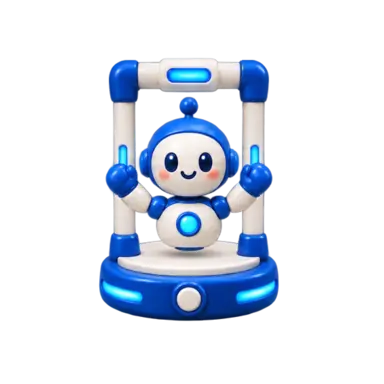
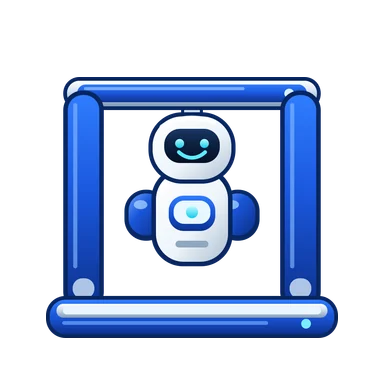
feat: generate modern Hangman illustrations

diff --git a/docs/design/game-art-fidelity-ledger.md b/docs/design/game-art-fidelity-ledger.md
@@ -141,3 +141,19 @@ Accepted ten individually generated Modern sprites after native-resolution sourc
 | Alpha, geometry and budget | Every source is a 1254×1254 RGBA PNG with one meaningful object. The existing preparation step removed 131–4,699 detached faint-alpha pixels in memory per source; no meaningful component touches an edge. All finals have genuine alpha, transparent corners, one meaningful component, no edge contact, at least 11.72% padding, and 76.04% pawn / 76.17% die longest-bound fill. Batch: 81,262 bytes; largest final: 11,634 bytes. |
 
 Final source PNGs are copied unchanged from built-in outputs into the ten manifest source paths. Only the ten target records changed in the manifest; their generated/reviewed timestamps use actual file generation times and the completed visual/metrics review. Stage remains `generation-batches`: 29 completed custom records, 79 `generationPending` custom records, and nine unchanged authority-pending coin slots. Asset tests passed 43/43, unit tests 88/88, TypeScript passed under Node 22.23.3, and the web/PWA build completed. No behavior code or validators changed. This batch does not claim a fresh gameplay audit.
+
+## Task 2E Final Modern Hangman illustrations — 2026-09-27
+
+Accepted seven deterministic Modern Hangman illustrations authored by the approved repository-local SVG/Sharp generator after prior generative methods could not preserve the fixed progression contract. Every role retains its individual frozen prompt and source path; generator provenance records how the same shared geometry was fulfilled without claiming a reused source or sheet crop.
+
+| Inspection | Evidence and result |
+| --- | --- |
+| Original sources | All seven 1024×1024 true-alpha PNGs were inspected individually at original detail through the authorized native-resolution inline fallback after the local viewer failed because bubblewrap is unavailable. Stage 0 is only the blue/silver platform; stages 1–6 add posts, crossbar, cheerful connected head, white/blue torso, short arms, then rounded feet. Shared camera, upper-left highlights, outlines, materials, scale, and retained parts are stable. |
+| Fixed geometry | Every source has exact x=123..900 platform bounds (778px), bottom edge y=901, 75.9766% longest-bound fill, 123px left/right/bottom padding, transparent corners, no edge contact, and one meaningful component containing 100% of connected foreground. Opaque prior-stage pixels remain byte-identical; visible pixel counts increase monotonically from 84,992 to 366,866. |
+| Production-size light/dark | [Light](qa/modern-hangman-full-light.webp) and [dark](qa/modern-hangman-full-dark.webp) sheets show the seven 384px finals in stage order. The polished white shell, glossy dark face, cyan expression, cobalt frame, silver details, and stage additions remain clear on both backgrounds with no boxes, text, checkerboard, shadow plane, clipping, or threatening imagery. |
+| Phone-size readability | [Light](qa/modern-hangman-phone-light.webp) and [dark](qa/modern-hangman-phone-dark.webp) 160px-cell sheets keep every addition unmistakable. The face and cyan expression remain friendly and readable; arms and feet remain distinct from the torso and platform. |
+| Final geometry and budget | All seven finals use the same shared downscale/base transform, align at output base y=338, have 76.0417% longest-bound fill, at least 11.98% padding, seven distinct hashes, one meaningful component, transparent corners, and no edge contact. Batch finals total 51,756 bytes; largest final is 12,092 bytes. Sources total 257,109 bytes and remain outside the runtime budget. |
+
+The generator uses one conditional assembly model and emits one separate source PNG per role; it is an authoring-only Node script and does not enter the application bundle. The platform/frame is drawn from identical definitions at every later stage, while additions are layered behind retained pieces to prevent geometry or material drift. The normalizer then applies one union crop, one scale, and one lower base anchor to all seven sources without upscaling.
+
+Stage remains `generation-batches`: 36 completed custom records, 72 `generationPending` custom records, and nine unchanged `authorityReferencePending` quarter slots. Only the seven Modern Hangman records gained completion dates and generator provenance. All 117 registered finals total 796,264 bytes; the largest remains the inherited 17,732-byte Arcade Hangman stage 6, below the 2 MiB total and 64 KiB per-file limits. This batch changes artwork and authoring contracts only; it does not alter Hangman gameplay logic or claim a fresh browser gameplay audit.

diff --git a/docs/design/game-art-production.md b/docs/design/game-art-production.md
@@ -38,10 +38,13 @@ interface GameArtSourceRecord {
   reviewedAt: string | null;
   generationPending?: true;
   authorityReferencePending?: true;
+  generator?: string; // Repository-relative approved deterministic Hangman authoring script.
 }
 ```
 
 Paths are portable, repository-relative paths with forward slashes. Absolute machine paths, parent traversal, grid dimensions, crops, and sheet-extraction fields are rejected. Individual accepted source paths differ from their final WebP paths. Store new source PNGs under `docs/design/source-art/{theme}/{family}/{role}.png`. Record the exact final generation prompt and real generation/inspection dates; visual inspection establishes semantic accuracy that decoded alpha alone cannot prove.
+
+The optional `generator` provenance field is restricted to completed Hangman records fulfilled by an approved deterministic authoring script. It must identify a repository-relative `scripts/*.mjs` file. Pending, legacy, Coin Flip, and non-Hangman records cannot claim deterministic generator provenance. A generator does not replace the record's frozen prompt: that prompt remains the semantic visual specification and every rendered source and final still requires original-detail and contact-sheet review.
 
 Task 2A sets `stage: "generation-batches"` with 108 `generationPending: true` custom sprites and nine `authorityReferencePending: true` quarter slots. All source paths now point to distinct planned PNGs under `docs/design/source-art/`. All generation and inspection dates are `null`: the prompts are frozen instructions, not claims that generation or visual review has occurred. Existing final WebPs remain unchanged until each production batch supplies and inspects its replacement. There are no `legacy` records.
 
@@ -57,6 +60,16 @@ Migration stages are enforced structurally by `validateManifest()`:
 Do not replace status flags with `false`; remove the property when the real source has been generated and inspected, then record its actual generation and review dates. Migration flags cannot coexist. Pending records require both dates to be `null`; completed records require real dates. `generationPending` cannot survive `individual-assets` or `accepted`. Strict composition checks apply to completed replacements. Pending placeholders still undergo square-dimension, genuine-alpha, transparent-corner, unclipped-edge, path, distinctness, registry, and byte-budget checks. Duplicate source paths and physical source aliases are rejected, so one image cannot stand in for multiple roles.
 
 ## Individual generation and normalization
+
+### Approved deterministic Hangman authoring
+
+Modern Hangman uses `scripts/generate-modern-hangman.mjs` after independent generation, reference editing, checker-matte recovery, and shared-sheet generation could not preserve the fixed progression geometry. This Node 22/Sharp authoring tool renders seven separate 1024px true-alpha PNGs from one SVG geometry model with conditional stage groups:
+
+```sh
+node scripts/generate-modern-hangman.mjs
+```
+
+The shared front-orthographic assembly fixes the 778px-wide platform at x=123..900 with bottom edge y=901. Later stages retain the exact platform/frame definitions and add posts, crossbar, connected friendly head, torso, arms, then feet. Additions are layered behind existing pieces so established opaque pixels remain byte-identical. The output uses no runtime dependency, text, baked interface, background, ground plane, cast shadow, or threatening imagery. After reviewing all seven individual PNGs, remove only their `generationPending` flags, record real dates plus the generator identifier, and normalize them together with `normalizeHangmanGroup`; all normal fill, padding, connected-component, distinctness, safety, and byte-budget gates remain unchanged.
 
 Generate one object or stage per source image, on a square canvas with genuine alpha. Prompts should specify the approved theme material, semantic owner/color, consistent camera and lighting, a complete silhouette, no text/watermark/ground plane, and a longest visible bound occupying 72–80% of the canvas. Dice faces remain blank so the application can render values. Hangman stages share scene framing and base placement; visual QA must confirm progression and reject rope/noose imagery. Quarter faces and edge use authoritative reference imagery in Task 3.
 
